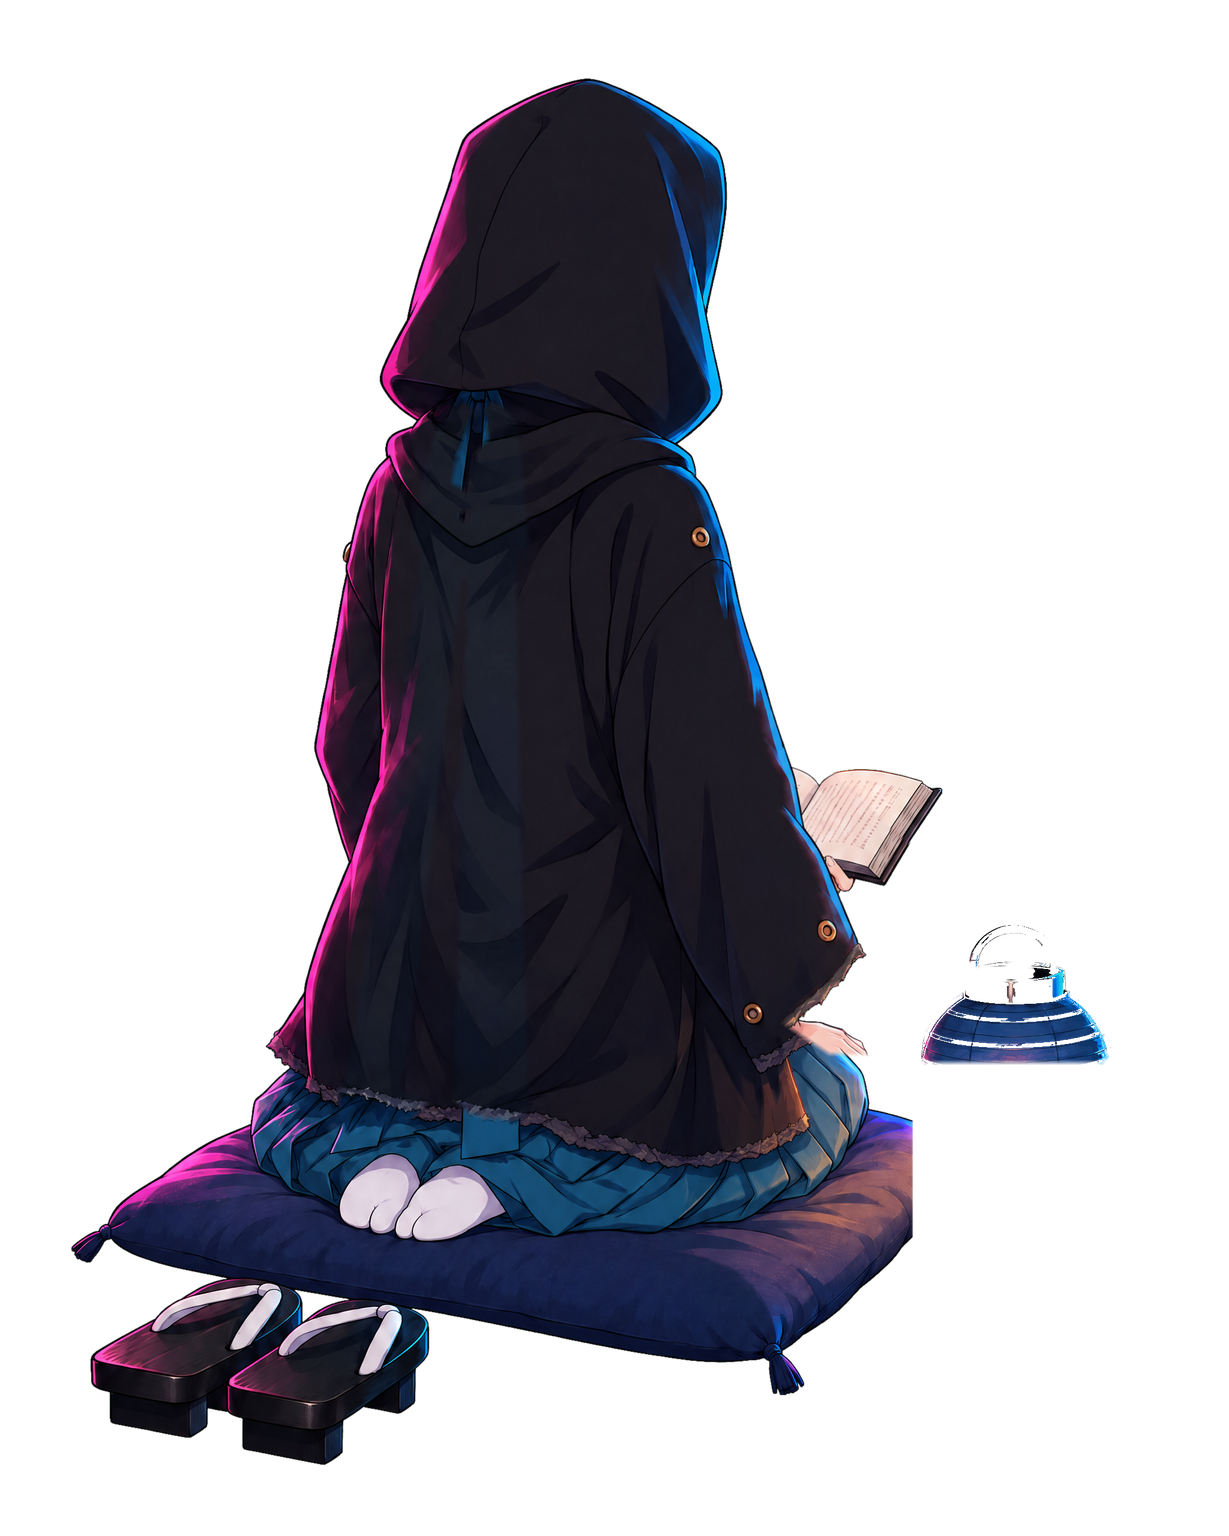
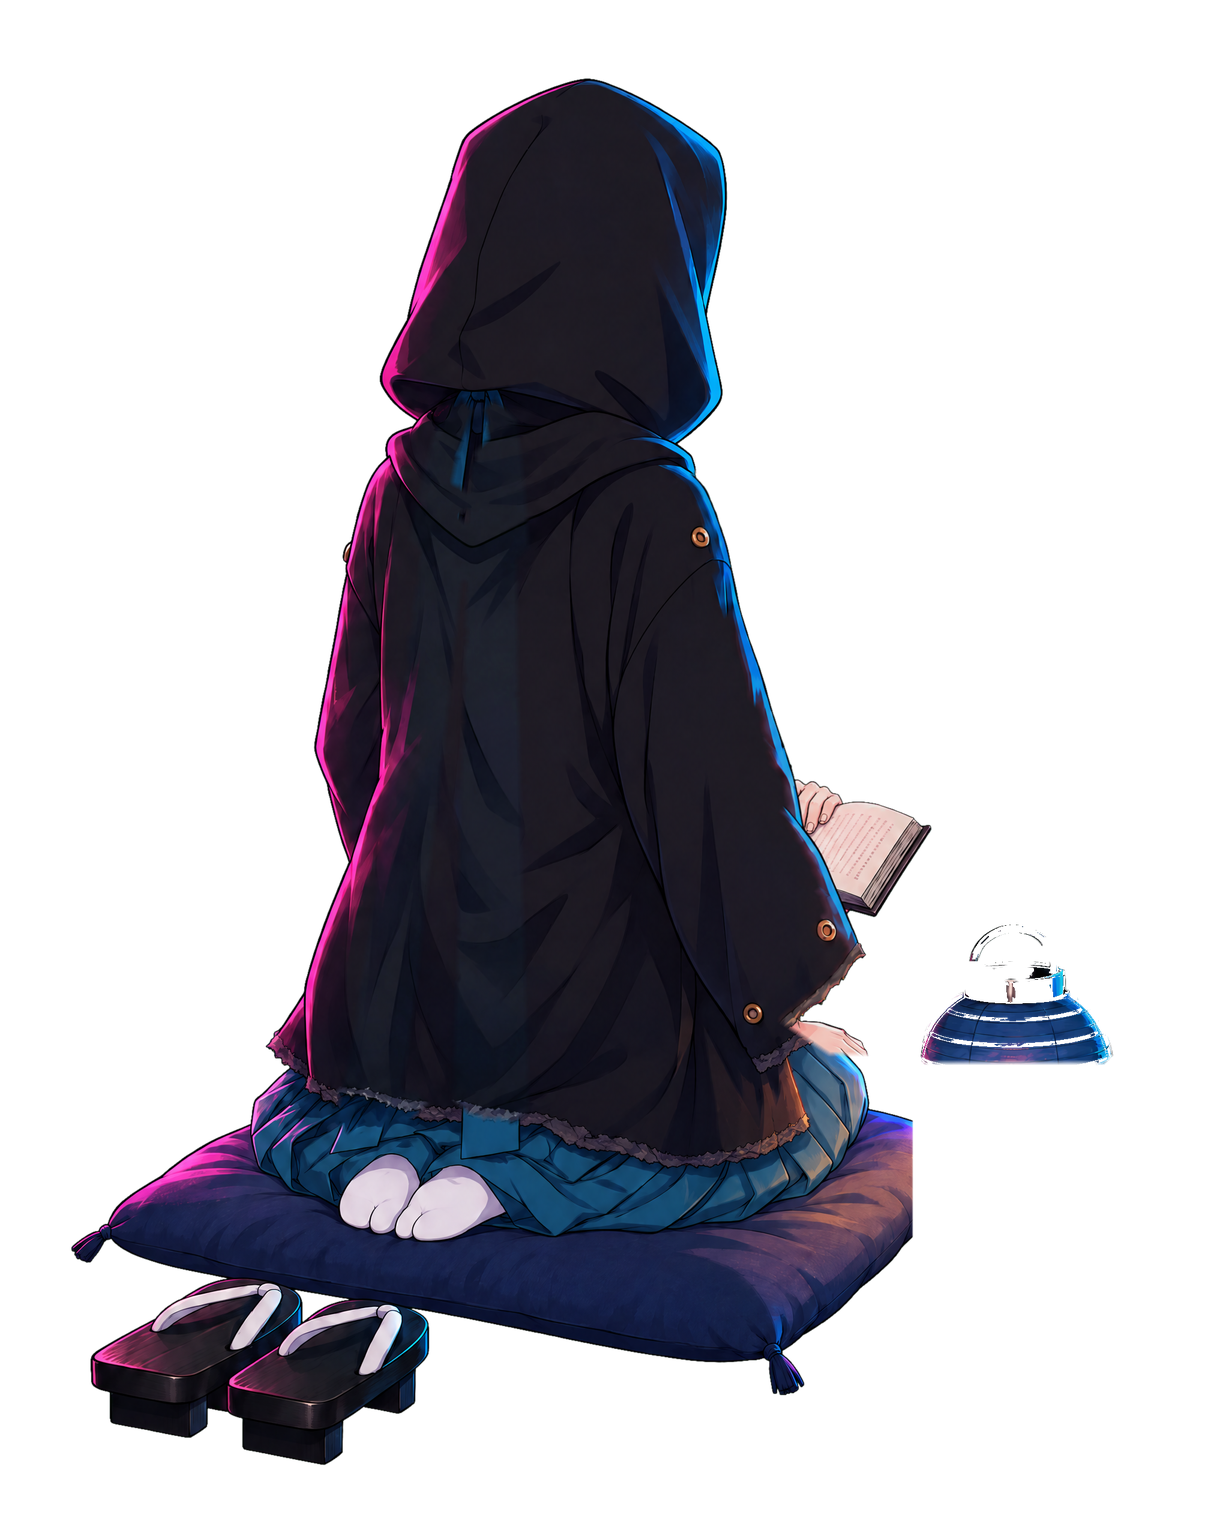
v7 review fixes in Clawd's world: the notes without the Caslon 'st' ligature, clause-kept lines and the margin grown before line two; a landing drawing so the book's page turn takes six drawings; the seated rig's floating book (her fingers now hold it) and floating clap hands (forearms joined); snip
- engine/type.js: shape() takes o.features (OpenType on/off, passed to fontkit's layout).
- The LED centre word (idolstage.js, already swept into 87c272c/e2ae27d):
  - whole, never split or behind her, placed per word from her silhouette at the LED's resolution;
  - hidden when the card camera wouldn't show it whole;
  - side-screen calls stacked in syllables.
- The notes (also in those commits):
  - pressNote shapes with liga/dlig off;
  - layoutNotes moves a clause whole to line two;
  - marginGrow completes before line two presses.
- fableseat.js: turn1 d0-1, turn2 d2-3, turn3 d4-5 (the new page printed on the landing leaf), flat at t0.
- rig/fable_seated: GPT Image edits of ear and rest (her left fingers on the book) and of clapopen, clap and clapmid (forearms from the sleeves); the originals are kept in src/poses/_v7. turn3.png, with ots.py masking only her fingers (skin by r-g).
- sfx_clawd.js: snip -30 to -34 dB, clap -35 to -38 dB.

diff --git a/projects/tsuzuku/src/fableseat.js b/projects/tsuzuku/src/fableseat.js
@@ -153,7 +153,7 @@ const FABLESEAT = (() => {
   async function loadOts(base = 'rig/fable_seated/') {
     O.quads = (await (await fetch(base + 'ots.json')).json()).quads;
     const get = f => new Promise((ok, no) => { const i = new Image(); i.onload = () => ok(i); i.onerror = no; i.src = base + f; });
-    await Promise.all(['ots', 'turn1', 'turn2', 'write'].map(async d => { O.img[d] = await get(`ots_${d}.png`); O.mask[d] = await get(`ots_${d}_page.png`); }));
+    await Promise.all(['ots', 'turn1', 'turn2', 'turn3', 'write'].map(async d => { O.img[d] = await get(`ots_${d}.png`); O.mask[d] = await get(`ots_${d}_page.png`); }));
   }
   // her book: the fable printed on the left page, and on the right page, in the margin's Caslon italic and her lighter ink, the
   // notes she writes (k of them so far, the last one written to `frac`: it writes on under her brush, with the margin's press)
@@ -217,8 +217,10 @@ const FABLESEAT = (() => {
     for (const [t0, name] of turns) { const k = Math.floor((tq - (t0 - 6 / 12)) * 12 + 1e-6); if (k >= 0) { before = after; after = name; d = k; } }
     // mid-turn, the page under the lifting page already shows the new spread; the page the turned leaf lands on keeps the old one
     // until it lands (Michael: it changed before the turn completed). Unflipped, the left leaf lifts; flipped (her room), the right
-    let draw = d <= 1 ? 'turn1' : d <= 4 ? 'turn2' : 'ots', L = after, R = d <= 4 ? before : after;
-    if (o.flip) { L = d <= 4 ? before : after; R = after; }
+    // six drawings to the landing (the v7 review: it snapped from the raised leaf to the finished spread): the leaf lifts (turn1),
+    // passes upright (turn2), lands (turn3, the new page printed on it), then lies flat on the landing drawing at t0
+    let draw = d <= 1 ? 'turn1' : d <= 3 ? 'turn2' : d <= 5 ? 'turn3' : 'ots', L = after, R = d <= 3 ? before : after;
+    if (o.flip) { L = d <= 3 ? before : after; R = after; }
     if (o.draw) { draw = o.draw; L = R = o.spread || 'notes'; }
     // mirrored (her room: she faces the window, so we're over her left shoulder): the drawing and its mask flip, the print doesn't
     const mq = p => p.map(([x, y]) => [W - x, y]), sw = m => [m[1], m[0], m[3], m[2]];

diff --git a/projects/tsuzuku/src/sfx_clawd.js b/projects/tsuzuku/src/sfx_clawd.js
@@ -19,7 +19,7 @@
     // her snips: every onset of a pinch hand (the hook's snipSnip on the crowd's claps; the claws sections), a frame after it closes
     const snips = (P, b0, b1) => { let prev = false;
       for (let t = b2t(b0); t < b2t(b1); t += FR) { const q = P(t), pin = q.handL === 'pinch' || q.handR === 'pinch';
-        if (pin && !prev) E.push(at(t + FR, 'snip', -30)); prev = pin; } };
+        if (pin && !prev) E.push(at(t + FR, 'snip', -34)); prev = pin; } };
     snips(CHOREO.clawdA.P(), 45, 93);
     if (CHOREO.clawdF) snips(CHOREO.clawdF.P(), 128, 141);                             // (the finale's call and claws)
     // the crab troupe lands the downbeats for her (Fable's rule): a soft wooden tap, under the song, where they dance (not in the
@@ -37,7 +37,7 @@
         const c = FABLESEAT.cue(t), b = t / BR;
         if (c.pose === 'write' && pp !== 'write') w0 = t;
         if (pp === 'write' && c.pose !== 'write' && w0 !== null && t - w0 > .45) E.push([w0 + 2 * FR, 'brush', -34]);   // (not the wipe's brief prep)
-        if (c.pose === 'clap' && pp !== 'clap' && b >= 82 && b < 90) E.push([t, 'clap', -35]);
+        if (c.pose === 'clap' && pp !== 'clap' && b >= 82 && b < 90) E.push([t, 'clap', -38]);
         pp = c.pose;
       }
     }

diff --git a/engine/type.js b/engine/type.js
@@ -41,7 +41,7 @@ function glyphUnitPath(F, key, g) {
 function shape(str, o = {}) {
   const { f, key, F } = fontInst(o.font || 'arch', { wdth: o.wdth, wght: o.wght, opsz: o.opsz });
   const s = o.size || 100, k = s / f.unitsPerEm, tr = (o.track || 0) * s, sp = (o.space ?? .06) * s;
-  const run = f.layout(o.upper ? str.toUpperCase() : str);
+  const run = f.layout(o.upper ? str.toUpperCase() : str, o.features);   // (o.features: OpenType features on/off, e.g. { liga: false })
   const glyphs = []; let x = 0;
   run.glyphs.forEach((g, i) => {
     const pos = run.positions[i], adv = pos.xAdvance * k;

diff --git a/projects/tsuzuku/rig/fable_seated/ots.py b/projects/tsuzuku/rig/fable_seated/ots.py
@@ -47,11 +47,14 @@ from build import over
 nl, _ = register(key(os.path.join(D, 'src/ots/ots_nolantern.png')), fit & ~poly(LZ))
 lzm = poly(LZ) & ~ndi.binary_dilation(pages, iterations=8)
 lzm = feather(lzm, 14)
-for d in ['ots', 'turn1', 'turn2', 'write']:
+for d in ['ots', 'turn1', 'turn2', 'turn3', 'write']:
     if d == 'ots': al, res = over(base, nl, lzm), 0
     else:
         al, warp = register(key(os.path.join(D, f'src/ots/{d}.png')), fit); res = np.abs(lum(al) - lum(base))[fit].mean(); al = over(al, nl, lzm)
     if d == 'ots': cover = poly(HAND)
+    elif d == 'turn3':                                                    # the leaf landing: print on it (it's nearly flat); only her hand covers
+        rgb = al[..., :3].astype(np.int16); skin = (rgb[..., 0] - rgb[..., 1] > 42) & (rgb[..., 0] > 150) & (al[..., 3] > 200)   # (skin: r-g 50-67; lit paper 17-35)
+        cover = ndi.binary_dilation(poly([[1690, 990], [2040, 990], [2040, 1280], [1690, 1280]]) & skin, iterations=3)   # (her fingers only)
     elif d == 'write':                                                    # her hand and brush on the left page
         diff = np.abs(al[..., :3].astype(np.int16) - over(base, nl, lzm)[..., :3].astype(np.int16)).max(-1) > 40
         cover = ndi.binary_dilation(ndi.binary_fill_holes(ndi.binary_closing(ndi.binary_opening(diff, iterations=2), iterations=6)) & ndi.binary_dilation(poly(HAND) | pages, iterations=40), iterations=8) | poly(HAND)
